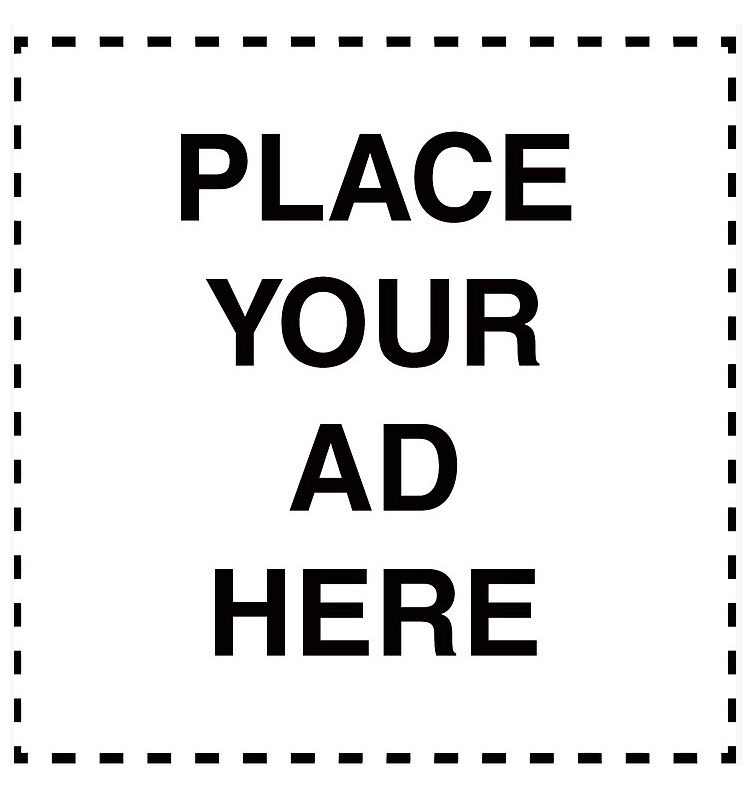
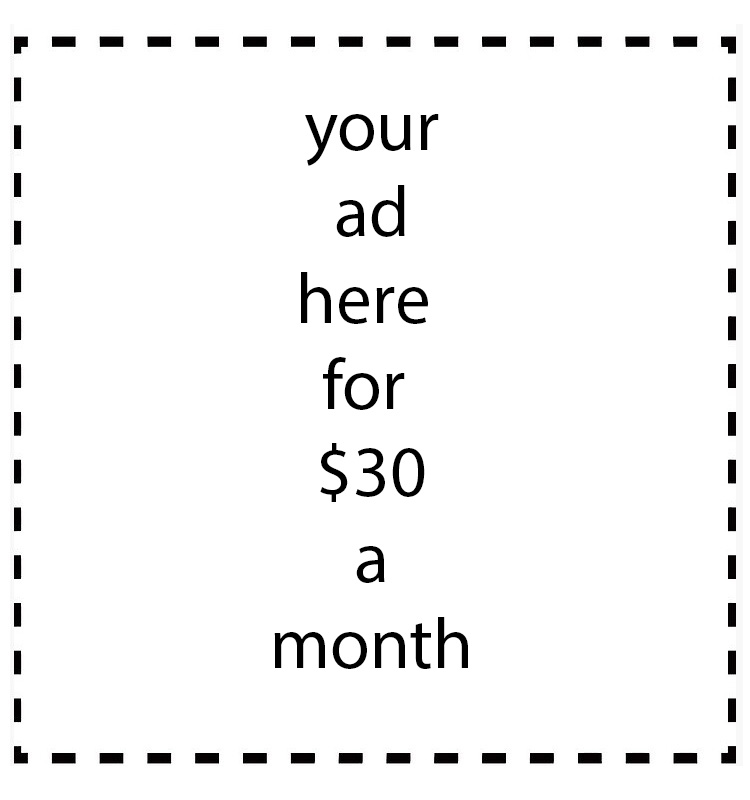
update
update

Changed region(s): [[0.276, 0.3438, 0.736, 0.6562], [0.2147, 0.125, 0.7667, 0.3125], [0.276, 0.6875, 0.736, 0.8438]]

diff --git a/index.html b/index.html
@@ -21,21 +21,7 @@
 
 <body>
 
-<p>
-This is advertising space. This is space to rent and use as advertising space for your company. 
-Your website does not get the traffic my website gets just like my website doesn't get the traffic
-your website gets. If you want a broader range for your brand consider my website. We are talking about 
-$250 a month for this advertising space. You know what come to think of it that's my starting point 
-I could charge $30 a month to ten businesses to make my mark which is $240 a month so that I can stay
-on Social Security Disability Income AND have some extra money and keep my businss skills
-sharp and growing. I could also trade you a link you put a link to my website on your website 
-and i put a link from my website to your website. All options are open here is some abstract space
-it's the space above the counter. You can request exclusivity for a time period that may 
-involve buying some people out or you can buy more than one advertisement block and 
-really stand out. If you can think of something else you can do with this advertising
-space let me know and lets talk business. I want to learn more i want to grow i want to earn
-i want to prosper and i want you to also. Explore the site Name's Nick you can reach
-me here <a href = "mailto: wuzywute@gmail.com">Nicholas Lawson</a> Why don't you do something.
+
 <img src ="flat,750x,075,f-pad,750x1000,f8f8f8.jpg" alt="Placeholder Advertisement" width="100%"><br><br>
 
 <a href="https://www.freecounterstat.com" title="website view counter"><img src="https://counter9.stat.ovh/private/freecounterstat.php?c=n853w7fhs95chgltrcb2m8k3fnxpb28x" border="0" title="website view counter" alt="website view counter"></a><br><br>
